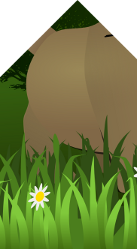
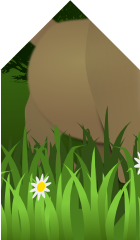
Changes: redrawn kitten board

diff --git a/qml/KidPuzzleSymbian/BoardKitten.qml b/qml/KidPuzzleSymbian/BoardKitten.qml
@@ -6,22 +6,22 @@ Board {
 
     Bit {
         source: "kitten_bunny.png"
-        dockX: UI.leftMargin + 20; dockY:5; boardX: UI.leftMargin + 96; boardY: 189; dockW: 50; dockH: 65
+        dockX: UI.leftMargin + 20; dockY:5; boardX: UI.leftMargin + 99; boardY: UI.screenHeight - 170; dockW: 70; dockH: 65
     }
     Bit {
         source: "kitten_flowers.png"
-        dockX: UI.leftMargin + 3; dockY:80; boardX: UI.leftMargin + 382; boardY: 171; dockW: 90; dockH: 65
+        dockX: UI.leftMargin + 5; dockY:80; boardX: UI.leftMargin + 422; boardY: UI.screenHeight - 170; dockW: 83; dockH: 65
     }
     Bit {
         source: "kitten_head.png"
-        dockX: UI.leftMargin + 3; dockY:160; boardX: UI.leftMargin + 323; boardY: 0; dockW: 90; dockH: 53
+        dockX: UI.leftMargin + 3; dockY:160; boardX: UI.leftMargin + 352; boardY: 0; dockW: 90; dockH: 60
     }
     Bit {
         source: "kitten_trees.png"
-        dockX: UI.leftMargin + 3; dockY:230; boardX: UI.leftMargin + 96; boardY: 0; dockW: 90; dockH: 45
+        dockX: UI.leftMargin + 3; dockY:230; boardX: UI.leftMargin + 99; boardY: 0; dockW: 90; dockH: 46
     }
     Bit {
         source: "kitten_body.png"
-        dockX: UI.leftMargin + 20; dockY:290; boardX: UI.leftMargin + 245; boardY: 111; dockW: 40; dockH: 65
+        dockX: UI.leftMargin + 20; dockY:290; boardX: UI.leftMargin + 282; boardY: UI.screenHeight - 240; dockW: 38; dockH: 65
     }
 }
